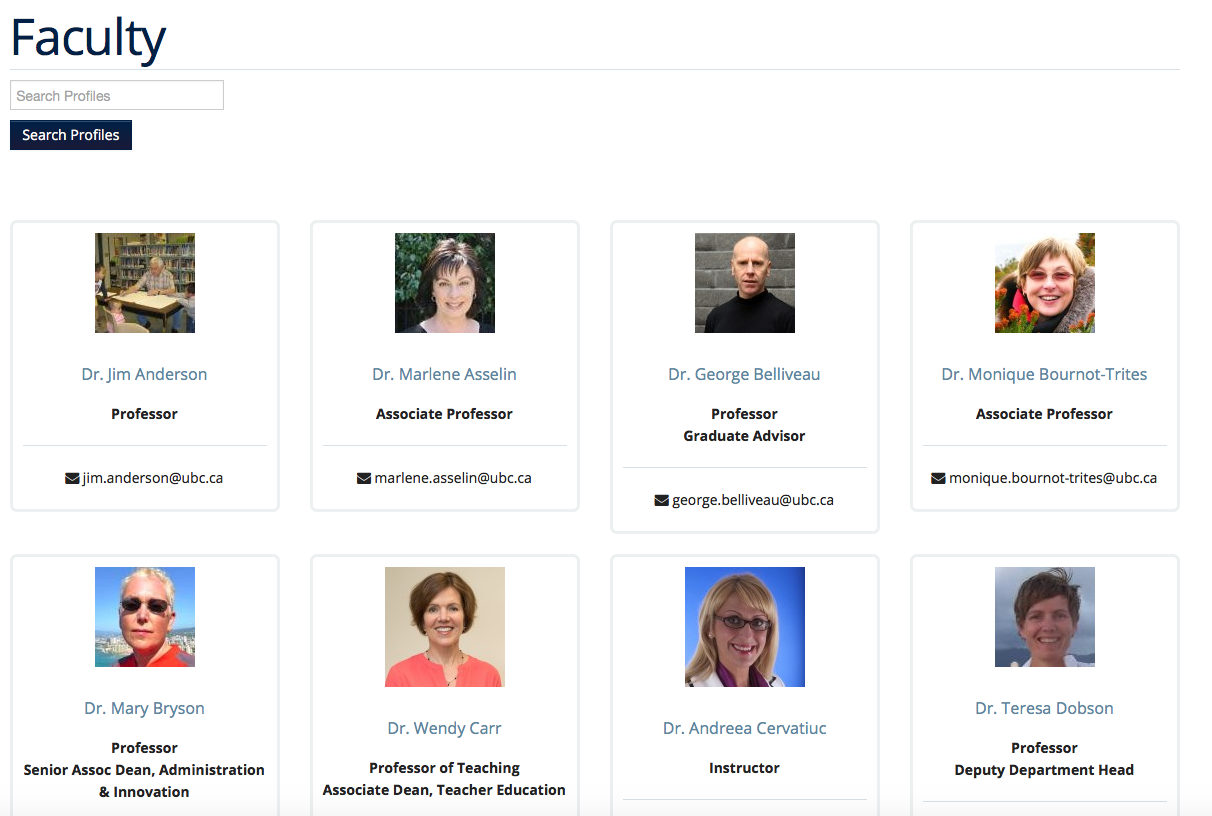
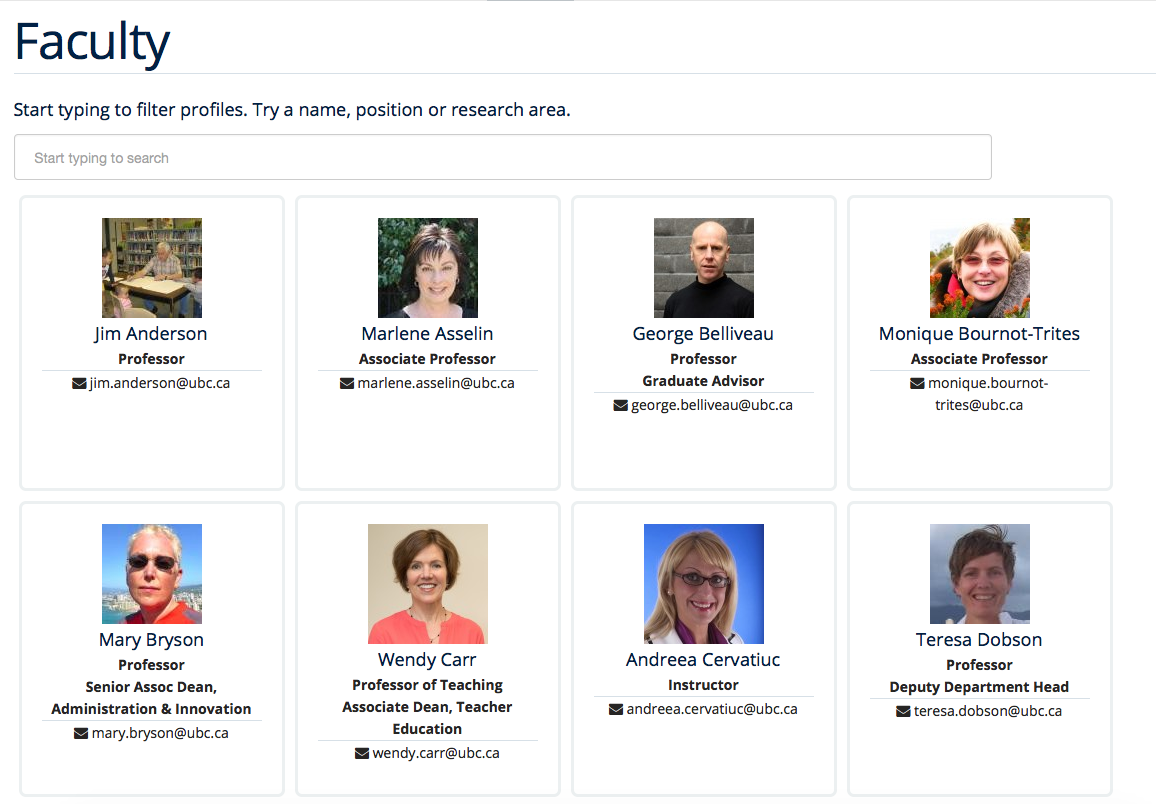
added quick search section

diff --git a/LLED/LLED_Documentation.html b/LLED/LLED_Documentation.html
@@ -566,6 +566,7 @@ table.CodeRay td.code>pre{padding:0}
 <li><a href="#_programs">Programs</a></li>
 <li><a href="#_resources">Resources</a></li>
 <li><a href="#_people">People</a></li>
+<li><a href="#_quick_search">Quick Search</a></li>
 </ul>
 </li>
 <li><a href="#_quick_how_to_guide">Quick How-to Guide</a>
@@ -1497,7 +1498,7 @@ Remember to click on "Job Posting" as the category.
 <div class="sect3">
 <h4 id="_student_resources">Student Resources</h4>
 <div class="paragraph">
-<p>Student resources are not as frequently used as the departmental ones. There are more external links and based on the widespread variation in clicks, users are more likely to end up on the page out of curiosity than out of necessity. The page can therefore be used as a showcase to common questions and outline some important topics such as plagiarism. The page is designed to be more "fun" to look at with many animated tiles.</p>
+<p>Student resources are not as frequently used as the departmental ones. There are more external links and based on the widespread variation in clicks, users are more likely to end up on the page out of curiosity than out of necessity. The page can therefore be used as a showcase to common questions and outline some important topics such as plagiarism. The page is designed to be more "fun" to look at with many animated tiles - which can all be filtered using the <a href="#_quick_search">Quick Search</a> tool.</p>
 </div>
 <div class="imageblock">
 <div class="content">
@@ -1521,6 +1522,24 @@ Remember to click on "Job Posting" as the category.
 <img src="images/Faculty.png" alt="Faculty">
 </div>
 <div class="title">Figure 6. Example of a "People" page - The Faculty page</div>
+</div>
+</div>
+<div class="sect2">
+<h3 id="_quick_search">Quick Search</h3>
+<div class="paragraph">
+<p>The old LLED site lacked an easily accessible and functional search tool. Searches were limited to the global UBC search tool which is housed in a small icon on the top right corner of every page. Most users of the site didn&#8217;t seem to be aware of this tool. For those that did use it, they were frequent complaints about the fact that it does a global search (all UBC sites), and returns many irrelevant results.</p>
+</div>
+<div class="paragraph">
+<p>To remedy this, a custom search tool was created to allow users to have a large, clearly visible search bar. The search bar would also filter results as you type making it an interactive and quick response tool. The backend code for this is based on the <a href="https://github.com/metafizzy/isotope">isotope plugin</a>. It was customised to filter LLED search items in tandem with <a href="#_the_spotlight">The Spotlight</a> feature.</p>
+</div>
+<div class="paragraph">
+<p>This code was developed specifically for LLED but should work on all websites if implemented correctly. Other departments within the faculty / other faculties are welcome to modify, share and use it. The backend code and documentation can be found <a href="https://github.com/darshandsoni/lled-quick-search">here</a>.</p>
+</div>
+<div class="imageblock">
+<div class="content">
+<img src="https://cloud.githubusercontent.com/assets/10469803/15833026/95fd4170-2bd9-11e6-820b-a7b29ab9ac9d.gif" alt="95fd4170 2bd9 11e6 820b a7b29ab9ac9d">
+</div>
+<div class="title">Figure 7. Screenshot of the Quick Search feature on the Student Resources page.</div>
 </div>
 </div>
 </div>
@@ -1630,7 +1649,7 @@ The Research page automatically pools in all the research posts and displays a s
 </div>
 <div id="footer">
 <div id="footer-text">
-Last updated 2016-05-13 11:38:30 PDT
+Last updated 2016-06-06 11:31:40 PDT
 </div>
 </div>
 </body>
